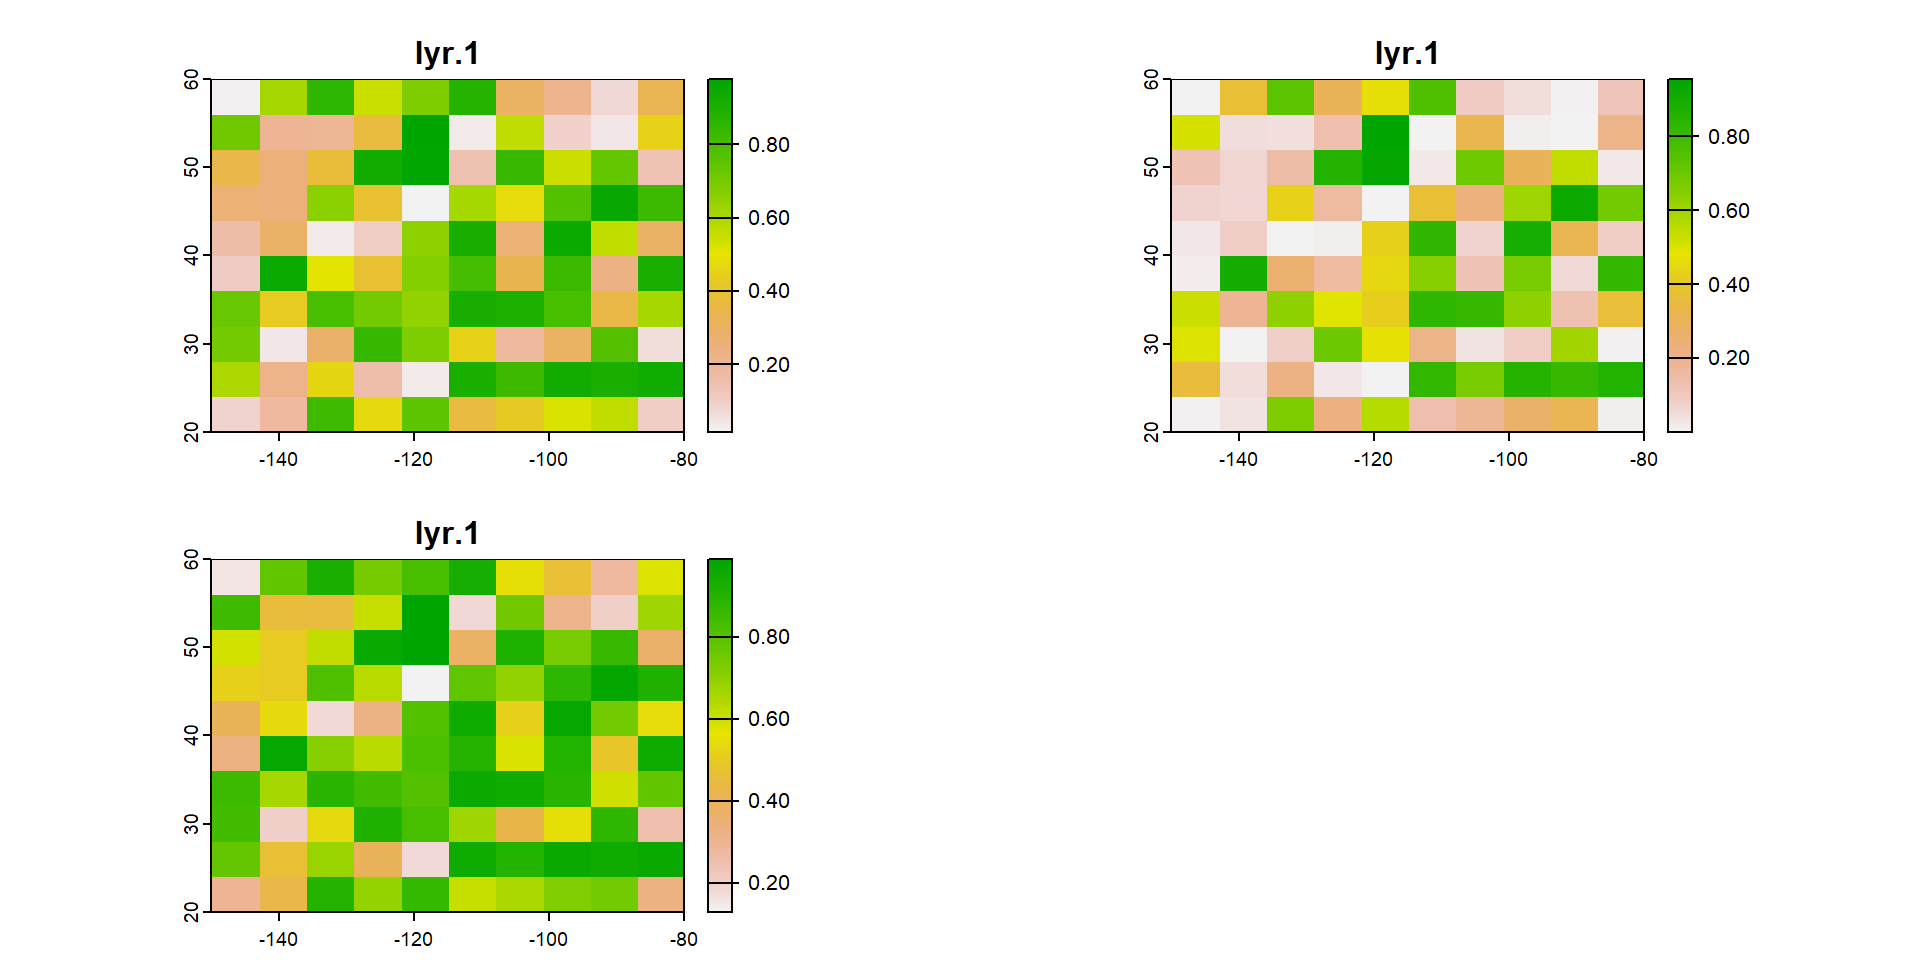
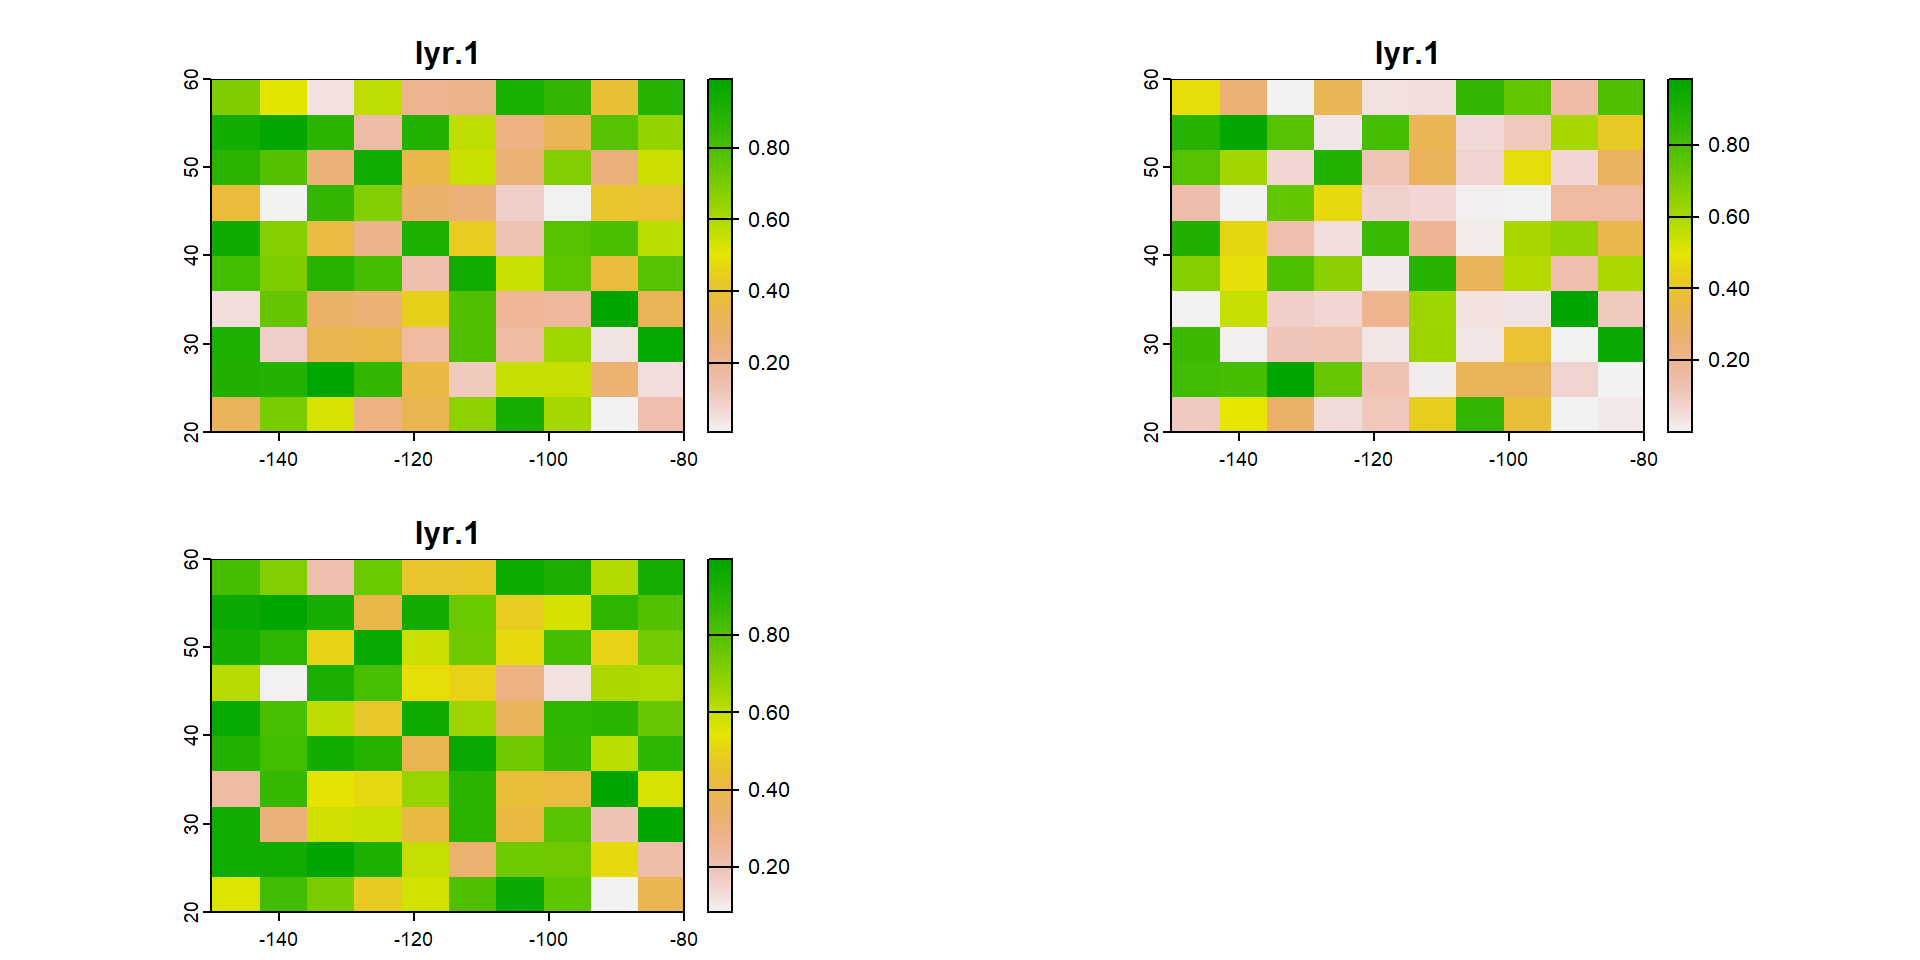
Built site for gh-pages

Changed region(s): [[0.0938, 0.5625, 0.4062, 0.9688], [0.0938, 0.0625, 0.4062, 0.4688], [0.5938, 0.0625, 0.9062, 0.4688]]

diff --git a/AEMER-2_Ejercicios.html b/AEMER-2_Ejercicios.html
@@ -177,6 +177,31 @@ pre > code.sourceCode > span > a:first-child::before { text-decoration: underlin
 
 </header>
 
+<div class="callout callout-style-default callout-note callout-titled">
+<div class="callout-header d-flex align-content-center">
+<div class="callout-icon-container">
+<i class="callout-icon"></i>
+</div>
+<div class="callout-title-container flex-fill">
+Nota
+</div>
+</div>
+<div class="callout-body-container callout-body">
+<p>Los ejercicios tendréis que entregarlos para la evaluación del curso. Para ello, crea un script de R con RStudio. Ponle el nombre <code>ejercicios_t2_[nombre]_[apellido].R</code>. Dicho script deberá estar organizado con comentarios en castellano (poniendo una almohadilla <code>#</code> delante) y justo detrás el código necesario para realizar el ejercicio (ver ejemplo debajo). Además, si el ejercicio pide reflexionar sobre el resultado use los comentarios (con la <code>#</code>) para indicar sus reflexiones debajo del código. Una vez los tengáis completos podéis mandarmelos por email.</p>
+<div class="cell">
+<details>
+<summary>Solución (no mirar de primeras)</summary>
+<div class="sourceCode cell-code" id="cb1"><pre class="sourceCode r code-with-copy"><code class="sourceCode r"><span id="cb1-1"><a href="#cb1-1" aria-hidden="true" tabindex="-1"></a><span class="co"># Ejercicio 1.</span></span>
+<span id="cb1-2"><a href="#cb1-2" aria-hidden="true" tabindex="-1"></a><span class="co"># Parte 1</span></span>
+<span id="cb1-3"><a href="#cb1-3" aria-hidden="true" tabindex="-1"></a><span class="fu">seq</span>(<span class="dv">1</span>, <span class="dv">40</span>, <span class="at">by =</span> <span class="dv">2</span>)</span>
+<span id="cb1-4"><a href="#cb1-4" aria-hidden="true" tabindex="-1"></a></span>
+<span id="cb1-5"><a href="#cb1-5" aria-hidden="true" tabindex="-1"></a><span class="co"># Parte 2</span></span>
+<span id="cb1-6"><a href="#cb1-6" aria-hidden="true" tabindex="-1"></a><span class="fu">seq</span>(<span class="dv">1</span>, <span class="dv">40</span>, <span class="at">by =</span> <span class="sc">-</span><span class="dv">2</span>)</span>
+<span id="cb1-7"><a href="#cb1-7" aria-hidden="true" tabindex="-1"></a><span class="co"># Este código da error porque especifiqué algo mal :)</span></span></code><button title="Copiar al portapapeles" class="code-copy-button"><i class="bi"></i></button></pre></div>
+</details>
+</div>
+</div>
+</div>
 <section id="trabajando-con-datos-vectoriales" class="level1">
 <h1>Trabajando con datos vectoriales</h1>
 <section id="funciones-útiles" class="level2">
@@ -195,16 +220,16 @@ pre > code.sourceCode > span > a:first-child::before { text-decoration: underlin
 <div class="cell">
 <details>
 <summary>Solución (no mirar de primeras)</summary>
-<div class="sourceCode cell-code" id="cb1"><pre class="sourceCode r code-with-copy"><code class="sourceCode r"><span id="cb1-1"><a href="#cb1-1" aria-hidden="true" tabindex="-1"></a><span class="fu">library</span>(geodata)</span>
-<span id="cb1-2"><a href="#cb1-2" aria-hidden="true" tabindex="-1"></a>departamentos <span class="ot">&lt;-</span> <span class="fu">gadm</span>(<span class="st">"ARG"</span>, <span class="dv">2</span>, <span class="at">path =</span> <span class="st">"."</span>)</span>
-<span id="cb1-3"><a href="#cb1-3" aria-hidden="true" tabindex="-1"></a>ba <span class="ot">&lt;-</span> departamentos[<span class="fu">which</span>(departamentos<span class="sc">$</span>NAME_1 <span class="sc">==</span> <span class="st">"Buenos Aires"</span>)]</span>
-<span id="cb1-4"><a href="#cb1-4" aria-hidden="true" tabindex="-1"></a>ba_utm <span class="ot">&lt;-</span> <span class="fu">project</span>(ba, <span class="st">"epsg:32721"</span>)</span>
-<span id="cb1-5"><a href="#cb1-5" aria-hidden="true" tabindex="-1"></a><span class="fu">par</span>(<span class="at">mfrow =</span> <span class="fu">c</span>(<span class="dv">1</span>, <span class="dv">2</span>))</span>
-<span id="cb1-6"><a href="#cb1-6" aria-hidden="true" tabindex="-1"></a><span class="fu">plot</span>(ba)</span>
-<span id="cb1-7"><a href="#cb1-7" aria-hidden="true" tabindex="-1"></a><span class="fu">plot</span>(ba_utm)</span></code><button title="Copiar al portapapeles" class="code-copy-button"><i class="bi"></i></button></pre></div>
+<div class="sourceCode cell-code" id="cb2"><pre class="sourceCode r code-with-copy"><code class="sourceCode r"><span id="cb2-1"><a href="#cb2-1" aria-hidden="true" tabindex="-1"></a><span class="fu">library</span>(geodata)</span>
+<span id="cb2-2"><a href="#cb2-2" aria-hidden="true" tabindex="-1"></a>departamentos <span class="ot">&lt;-</span> <span class="fu">gadm</span>(<span class="st">"ARG"</span>, <span class="dv">2</span>, <span class="at">path =</span> <span class="st">"."</span>)</span>
+<span id="cb2-3"><a href="#cb2-3" aria-hidden="true" tabindex="-1"></a>ba <span class="ot">&lt;-</span> departamentos[<span class="fu">which</span>(departamentos<span class="sc">$</span>NAME_1 <span class="sc">==</span> <span class="st">"Buenos Aires"</span>)]</span>
+<span id="cb2-4"><a href="#cb2-4" aria-hidden="true" tabindex="-1"></a>ba_utm <span class="ot">&lt;-</span> <span class="fu">project</span>(ba, <span class="st">"epsg:32721"</span>)</span>
+<span id="cb2-5"><a href="#cb2-5" aria-hidden="true" tabindex="-1"></a><span class="fu">par</span>(<span class="at">mfrow =</span> <span class="fu">c</span>(<span class="dv">1</span>, <span class="dv">2</span>))</span>
+<span id="cb2-6"><a href="#cb2-6" aria-hidden="true" tabindex="-1"></a><span class="fu">plot</span>(ba)</span>
+<span id="cb2-7"><a href="#cb2-7" aria-hidden="true" tabindex="-1"></a><span class="fu">plot</span>(ba_utm)</span></code><button title="Copiar al portapapeles" class="code-copy-button"><i class="bi"></i></button></pre></div>
 </details>
 <div class="cell-output-display">
-<p><img src="AEMER-2_Ejercicios_files/figure-html/unnamed-chunk-1-1.png" class="img-fluid" width="672"></p>
+<p><img src="AEMER-2_Ejercicios_files/figure-html/unnamed-chunk-2-1.png" class="img-fluid" width="672"></p>
 </div>
 </div>
 

diff --git a/AEMER-2_Analisis_espacial.html b/AEMER-2_Analisis_espacial.html
@@ -516,9 +516,9 @@ attr(,"package")
  coord. ref. : +proj=longlat +datum=WGS84 +no_defs 
  names       :    ID precip
  type        : &lt;int&gt;  &lt;num&gt;
- values      :     1     40
-                   2     10
-                   3     51</code></pre>
+ values      :     1     53
+                   2     97
+                   3      8</code></pre>
 </div>
 </div>
 </section>
@@ -651,9 +651,9 @@ resolution  : 7, 4  (x, y)
 extent      : -150, -80, 20, 60  (xmin, xmax, ymin, ymax)
 coord. ref. : lon/lat WGS 84 (CRS84) (OGC:CRS84) 
 source(s)   : memory
-name        :      lyr.1 
-min value   : 0.01687046 
-max value   : 0.97723130 </code></pre>
+name        :       lyr.1 
+min value   : 0.007069588 
+max value   : 0.991649456 </code></pre>
 </div>
 </div>
 </section>
@@ -692,9 +692,9 @@ resolution  : 7, 4  (x, y)
 extent      : -150, -80, 20, 60  (xmin, xmax, ymin, ymax)
 coord. ref. : lon/lat WGS 84 (CRS84) (OGC:CRS84) 
 source(s)   : memory
-names       :      lyr.1,        lyr.1,     lyr.1 
-min values  : 0.01687046, 0.0002846124, 0.1298863 
-max values  : 0.97723130, 0.9549810155, 0.9885501 </code></pre>
+names       :       lyr.1,        lyr.1,      lyr.1 
+min values  : 0.007069588, 4.997907e-05, 0.08408084 
+max values  : 0.991649456, 9.833686e-01, 0.99581598 </code></pre>
 </div>
 </div>
 </section>
@@ -718,8 +718,8 @@ extent      : -150, -80, 20, 60  (xmin, xmax, ymin, ymax)
 coord. ref. : lon/lat WGS 84 (CRS84) (OGC:CRS84) 
 source(s)   : memory
 name        :        lyr.1 
-min value   : 0.0002846124 
-max value   : 0.9549810155 </code></pre>
+min value   : 4.997907e-05 
+max value   : 9.833686e-01 </code></pre>
 </div>
 </div>
 </section>
@@ -844,9 +844,9 @@ dimensions  : 4455, 2454, 12  (nrow, ncol, nlyr)
 resolution  : 871.5251, 871.5251  (x, y)
 extent      : -18378.29, 2120344, 3739870, 7622514  (xmin, xmax, ymin, ymax)
 coord. ref. : WGS 84 / UTM zone 19S (EPSG:32719) 
-source      : spat_531829073bd0_21272.tif 
+source      : spat_41644c6081c_16740.tif 
 names       : ARG_w~avg_1, ARG_w~avg_2, ARG_w~avg_3, ARG_w~avg_4, ARG_w~avg_5, ARG_w~avg_6, ... 
-min values  :   -10.05575,   -10.73731,   -11.50007,   -13.56283,   -15.82783,   -19.13787, ... 
+min values  :   -10.04721,   -10.73881,   -11.50141,   -13.56402,   -15.82001,   -19.13045, ... 
 max values  :    29.20000,    28.40000,    27.30000,    25.00000,    22.20000,    20.99198, ... </code></pre>
 </div>
 </div>
@@ -892,10 +892,10 @@ dimensions  : 7765, 4277, 12  (nrow, ncol, nlyr)
 resolution  : 500, 500  (x, y)
 extent      : -18378.29, 2120122, 3739870, 7622370  (xmin, xmax, ymin, ymax)
 coord. ref. : WGS 84 / UTM zone 19S (EPSG:32719) 
-source      : spat_53187a2165af_21272.tif 
+source      : spat_416433881a51_16740.tif 
 names       : ARG_w~avg_1, ARG_w~avg_2, ARG_w~avg_3, ARG_w~avg_4, ARG_w~avg_5, ARG_w~avg_6, ... 
-min values  :    -9.82642,   -10.52409,   -11.27296,   -13.33453,   -15.59274,   -18.91612, ... 
-max values  :    29.20000,    28.40000,    27.30000,    25.00000,    22.20000,    20.98239, ... </code></pre>
+min values  :   -9.827536,   -10.52519,   -11.27388,   -13.33544,   -15.58571,   -18.90942, ... 
+max values  :   29.200001,    28.40000,    27.30000,    25.00000,    22.20000,    20.98239, ... </code></pre>
 </div>
 </div>
 </section>
@@ -928,9 +928,9 @@ dimensions  : 4455, 2454, 1  (nrow, ncol, nlyr)
 resolution  : 871.5251, 871.5251  (x, y)
 extent      : -18378.29, 2120344, 3739870, 7622514  (xmin, xmax, ymin, ymax)
 coord. ref. : WGS 84 / UTM zone 19S (EPSG:32719) 
-source      : spat_531829073bd0_21272.tif 
+source      : spat_41644c6081c_16740.tif 
 name        : ARG_wc2.1_30s_tavg_2 
-min value   :            -10.73731 
+min value   :            -10.73881 
 max value   :             28.40000 </code></pre>
 </div>
 <div class="sourceCode cell-code" id="cb70"><pre class="sourceCode numberSource r number-lines code-with-copy"><code class="sourceCode r"><span id="cb70-1"><a href="#cb70-1"></a>tavg_utm19s_2[[<span class="dv">2</span>]]</span></code><button title="Copy to Clipboard" class="code-copy-button"><i class="bi"></i></button></pre></div>
@@ -940,9 +940,9 @@ dimensions  : 7765, 4277, 1  (nrow, ncol, nlyr)
 resolution  : 500, 500  (x, y)
 extent      : -18378.29, 2120122, 3739870, 7622370  (xmin, xmax, ymin, ymax)
 coord. ref. : WGS 84 / UTM zone 19S (EPSG:32719) 
-source      : spat_53187a2165af_21272.tif 
+source      : spat_416433881a51_16740.tif 
 name        : ARG_wc2.1_30s_tavg_2 
-min value   :            -10.52409 
+min value   :            -10.52519 
 max value   :             28.40000 </code></pre>
 </div>
 </div>

diff --git a/AEMER-1-Ejercicios.html b/AEMER-1-Ejercicios.html
@@ -202,7 +202,7 @@ Nota
 </div>
 </div>
 <div class="callout-body-container callout-body">
-<p>Los ejercicios tendréis que entregarlos para la evaluación del curso. Para ello, crea un script de R con RStudio. Ponle el nombre <code>ejercicios_t1_[nombre]_[apellido].R</code>. Dicho script deberá estar organizado con comentarios en castellano (poniendo una almohadilla <code>#</code> delante) y justo detrás el código necesario para realizar el ejercicio. Además, si el ejercicio pide reflexionar sobre el resultado use los comentarios (con la <code>#</code>) para indicar sus reflexiones debajo del código.</p>
+<p>Los ejercicios tendréis que entregarlos para la evaluación del curso. Para ello, crea un script de R con RStudio. Ponle el nombre <code>ejercicios_t1_[nombre]_[apellido].R</code>. Dicho script deberá estar organizado con comentarios en castellano (poniendo una almohadilla <code>#</code> delante) y justo detrás el código necesario para realizar el ejercicio (ver ejemplo debajo). Además, si el ejercicio pide reflexionar sobre el resultado use los comentarios (con la <code>#</code>) para indicar sus reflexiones debajo del código. Una vez los tengáis completos podéis mandarmelos por email.</p>
 <div class="cell">
 <div class="sourceCode cell-code" id="cb1"><pre class="sourceCode r code-with-copy"><code class="sourceCode r"><span id="cb1-1"><a href="#cb1-1" aria-hidden="true" tabindex="-1"></a><span class="co"># Ejercicio 1.</span></span>
 <span id="cb1-2"><a href="#cb1-2" aria-hidden="true" tabindex="-1"></a><span class="co"># Parte 1</span></span>
